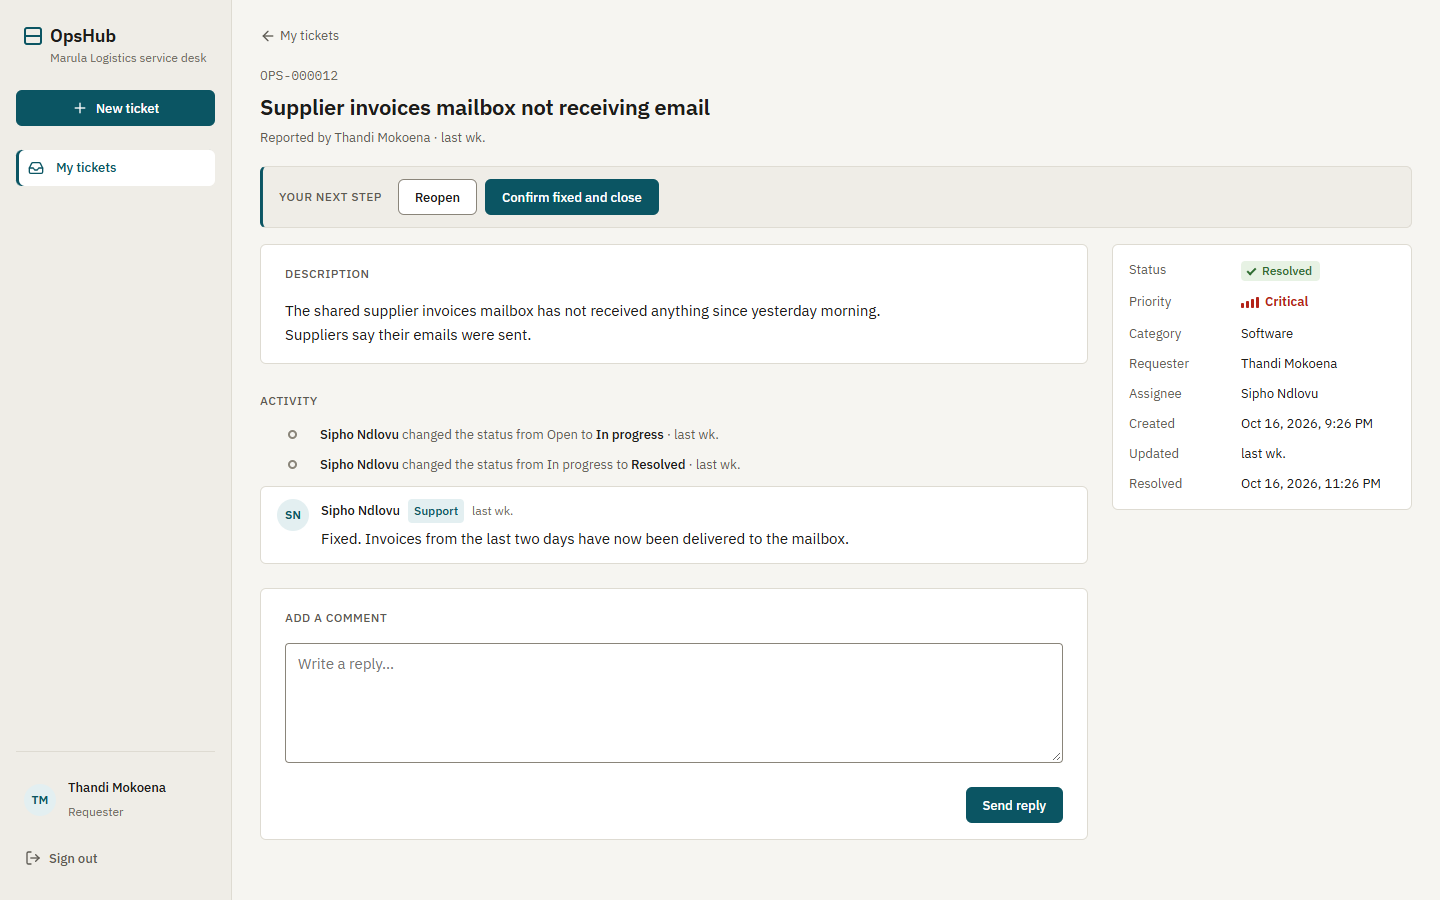
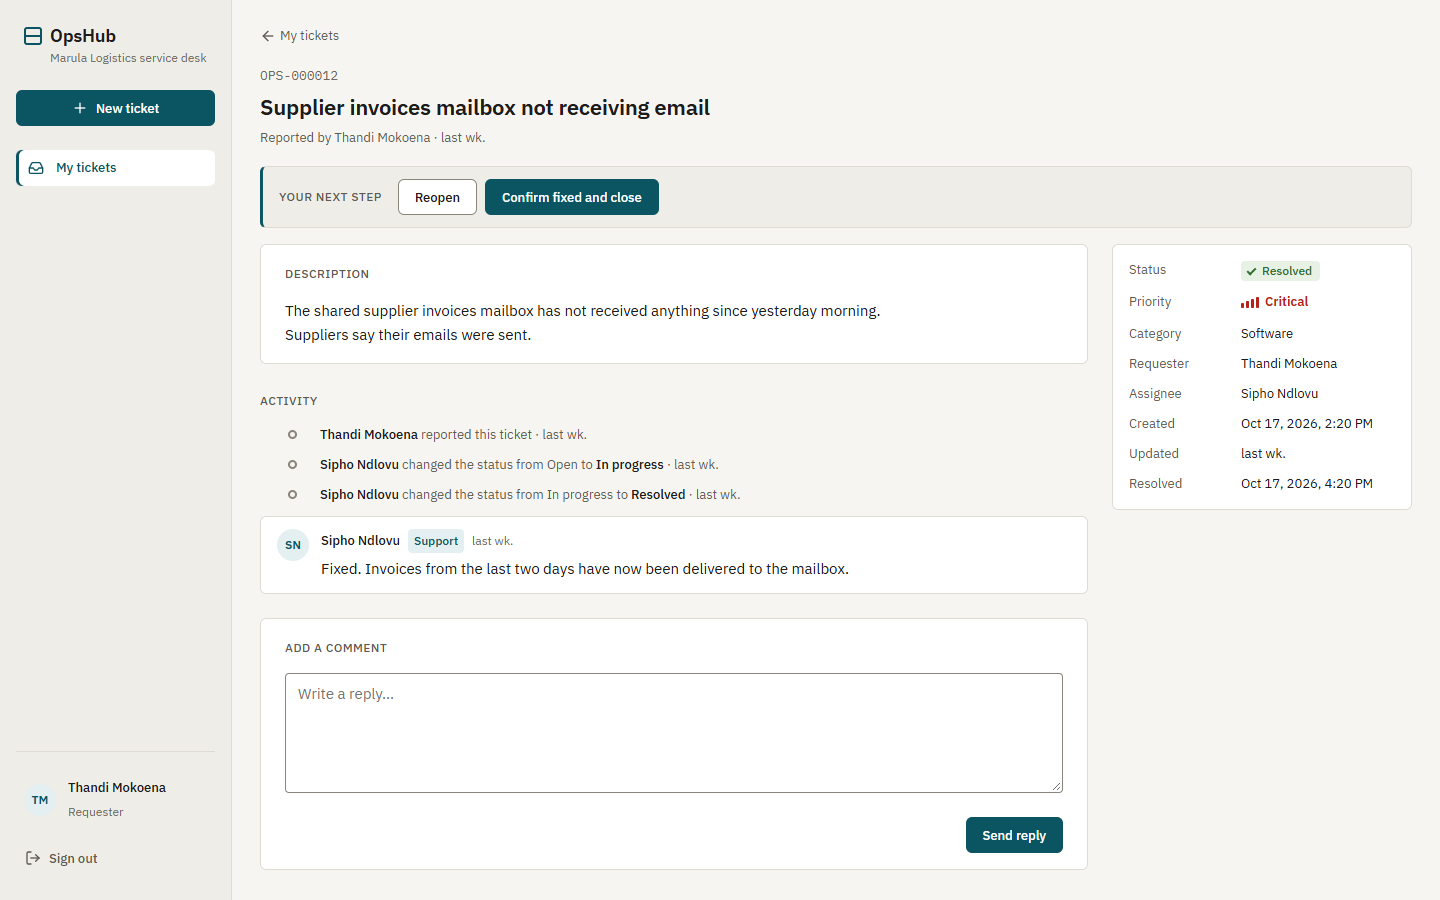
Show the ticket being reported in its timeline; add the report screenshot
The activity timeline started at the first status change, so a ticket's
history began after it was reported. The creation entry was recorded but
filtered out; it now opens the timeline as "<name> reported this ticket".
The timeline merge moves into a pure function with tests (50 frontend
tests).

README: a screenshot of the report form, and the screenshots reordered
to follow the workflow from submission to resolution.

Changed region(s): [[0.1875, 0.4667, 0.5938, 0.7778], [0.6562, 0.8711, 0.75, 0.9644], [0.9062, 0.5289, 0.9688, 0.56]]

diff --git a/src/OpsHub.Web/src/app/features/tickets/timeline.spec.ts b/src/OpsHub.Web/src/app/features/tickets/timeline.spec.ts
@@ -1,0 +1,36 @@
+import { StatusHistoryEntry, TicketComment } from '../../core/api/models';
+import { buildTimeline } from './timeline';
+
+const thandi = { id: 'u-thandi', displayName: 'Thandi Mokoena' };
+const sipho = { id: 'u-sipho', displayName: 'Sipho Ndlovu' };
+
+const history = (id: number, from: StatusHistoryEntry['fromStatus'], to: StatusHistoryEntry['toStatus'], at: string): StatusHistoryEntry =>
+  ({ id, fromStatus: from, toStatus: to, changedBy: from === null ? thandi : sipho, note: null, changedAt: at });
+
+const comment = (id: number, at: string): TicketComment =>
+  ({ id, body: 'Reply', isInternal: false, author: sipho, authorIsStaff: true, createdAt: at });
+
+/** The ticket page's activity list: status changes and comments, oldest first. */
+describe('buildTimeline', () => {
+  it('starts with the ticket being reported, so the whole story is shown', () => {
+    const items = buildTimeline([history(1, null, 'Open', '2026-10-24T08:00:00Z')], []);
+
+    expect(items).toHaveLength(1);
+    expect(items[0]).toMatchObject({ kind: 'status', entry: { fromStatus: null, toStatus: 'Open' } });
+  });
+
+  it('merges status changes and comments in time order', () => {
+    const items = buildTimeline(
+      [history(1, null, 'Open', '2026-10-24T08:00:00Z'), history(2, 'Open', 'InProgress', '2026-10-24T09:00:00Z')],
+      [comment(10, '2026-10-24T08:30:00Z'), comment(11, '2026-10-24T09:30:00Z')],
+    );
+
+    expect(items.map((i) => i.key)).toEqual(['s1', 'c10', 's2', 'c11']);
+  });
+
+  it('puts a status change before a comment made at the same moment', () => {
+    const items = buildTimeline([history(2, 'Open', 'Resolved', '2026-10-24T09:00:00Z')], [comment(10, '2026-10-24T09:00:00Z')]);
+
+    expect(items.map((i) => i.kind)).toEqual(['status', 'comment']);
+  });
+});

diff --git a/src/OpsHub.Web/src/app/features/tickets/ticket-detail.ts b/src/OpsHub.Web/src/app/features/tickets/ticket-detail.ts
@@ -20,17 +20,13 @@ import { RelativeTime } from '../../shared/ui/relative-time';
 import { StatusTag } from '../../shared/ui/status-tag';
 import { StatusDialog } from './status-dialog';
 import { StatusAction, statusActions } from './ticket-actions';
+import { TimelineItem, buildTimeline } from './timeline';
 
 interface TicketView {
   ticket: TicketDetails;
   comments: TicketComment[];
   history: StatusHistoryEntry[];
 }
-
-/** One entry in the merged timeline of comments and status changes. */
-type TimelineItem =
-  | { kind: 'comment'; key: string; at: string; comment: TicketComment }
-  | { kind: 'status'; key: string; at: string; entry: StatusHistoryEntry };
 
 @Component({
   selector: 'app-ticket-detail',
@@ -73,13 +69,7 @@ export class TicketDetail implements HasUnsavedChanges {
 
   protected readonly timeline = computed<TimelineItem[]>(() => {
     const view = this.state().data;
-    if (!view) return [];
-    const items: TimelineItem[] = [
-      ...view.comments.map((comment) => ({ kind: 'comment' as const, key: `c${comment.id}`, at: comment.createdAt, comment })),
-      // The first history row is the ticket being reported; the header already shows that.
-      ...view.history.filter((h) => h.fromStatus !== null).map((entry) => ({ kind: 'status' as const, key: `s${entry.id}`, at: entry.changedAt, entry })),
-    ];
-    return items.sort((a, b) => a.at.localeCompare(b.at));
+    return view ? buildTimeline(view.history, view.comments) : [];
   });
 
   protected readonly actions = computed<StatusAction[]>(() => {

diff --git a/src/OpsHub.Web/src/app/features/tickets/timeline.ts b/src/OpsHub.Web/src/app/features/tickets/timeline.ts
@@ -1,0 +1,21 @@
+import { StatusHistoryEntry, TicketComment } from '../../core/api/models';
+
+/** One entry in the merged timeline of comments and status changes. */
+export type TimelineItem =
+  | { kind: 'comment'; key: string; at: string; comment: TicketComment }
+  | { kind: 'status'; key: string; at: string; entry: StatusHistoryEntry };
+
+/**
+ * Merges a ticket's status history and comments into one list, oldest first. The first
+ * history row (from no status to Open) is the ticket being reported, so the timeline tells
+ * the whole story from submission onwards.
+ */
+export function buildTimeline(history: StatusHistoryEntry[], comments: TicketComment[]): TimelineItem[] {
+  // History first, so an event and a comment at the same moment keep that order after the
+  // (stable) sort.
+  const items: TimelineItem[] = [
+    ...history.map((entry) => ({ kind: 'status' as const, key: `s${entry.id}`, at: entry.changedAt, entry })),
+    ...comments.map((comment) => ({ kind: 'comment' as const, key: `c${comment.id}`, at: comment.createdAt, comment })),
+  ];
+  return items.sort((a, b) => a.at.localeCompare(b.at));
+}

diff --git a/src/OpsHub.Web/src/app/features/tickets/ticket-detail.html b/src/OpsHub.Web/src/app/features/tickets/ticket-detail.html
@@ -140,8 +140,12 @@
                     <div>
                       <p>
                         <span class="author">{{ item.entry.changedBy.displayName }}</span>
-                        changed the status from {{ statusLabel(item.entry.fromStatus) }} to
-                        <strong>{{ statusLabel(item.entry.toStatus) }}</strong>
+                        @if (item.entry.fromStatus === null) {
+                          reported this ticket
+                        } @else {
+                          changed the status from {{ statusLabel(item.entry.fromStatus) }} to
+                          <strong>{{ statusLabel(item.entry.toStatus) }}</strong>
+                        }
                         · <app-relative-time [value]="item.entry.changedAt" />
                       </p>
                       @if (item.entry.note) {

diff --git a/README.md b/README.md
@@ -49,30 +49,35 @@ All data shown is fictional demo data.
 ![Staff dashboard: open tickets, tickets needing triage, status and priority breakdowns, agent workload and recently updated tickets](docs/screenshots/dashboard.png)
 *The staff dashboard, built from live data.*
 
+From submission to resolution:
+
 <table>
   <tr>
-    <td width="50%"><img src="docs/screenshots/queue.png" alt="Support queue showing the All active view with search, priority and category filters, and sortable columns"></td>
-    <td width="50%"><img src="docs/screenshots/ticket-staff.png" alt="Ticket detail for staff with the Next step bar, the activity history including an internal note, and the assignment panel"></td>
+    <td width="50%"><img src="docs/screenshots/new-ticket.png" alt="The Report a problem form filled in by a requester: title, category Network, priority High and a description of a Wi-Fi problem"></td>
+    <td width="50%"><img src="docs/screenshots/requester-tickets.png" alt="A requester's list of their own tickets, with prompts for tickets needing a reply or confirmation"></td>
   </tr>
   <tr>
-    <td><em>The queue: views, search, filters and sorting.</em></td>
-    <td><em>A ticket as staff see it, with the next step and an internal note.</em></td>
+    <td><em>1. An employee reports a problem…</em></td>
+    <td><em>2. …and follows it among their own tickets.</em></td>
   </tr>
   <tr>
-    <td><img src="docs/screenshots/requester-tickets.png" alt="A requester's list of their own tickets, with prompts for tickets needing a reply or confirmation"></td>
-    <td><img src="docs/screenshots/requester-resolved.png" alt="A resolved ticket as the requester sees it, with buttons to reopen it or confirm the fix and close it"></td>
+    <td><img src="docs/screenshots/queue.png" alt="Support queue showing the All active view with search, priority and category filters, and sortable columns"></td>
+    <td><img src="docs/screenshots/ticket-staff.png" alt="Ticket detail for staff: the Next step bar, an activity history that starts with the ticket being reported, an internal note, and the assignment panel"></td>
   </tr>
   <tr>
-    <td><em>A requester sees only their own tickets.</em></td>
-    <td><em>The requester confirms the fix or reopens the ticket.</em></td>
+    <td><em>3. Support triages the queue: views, search, filters and sorting.</em></td>
+    <td><em>4. An agent works the ticket. The history shows every step since it was reported.</em></td>
   </tr>
   <tr>
+    <td><img src="docs/screenshots/requester-resolved.png" alt="A resolved ticket as the requester sees it, with its full history and buttons to reopen it or confirm the fix and close it"></td>
     <td><img src="docs/screenshots/admin-users.png" alt="User administration with the Add a user dialog open"></td>
-    <td align="center"><img src="docs/screenshots/queue-mobile.png" alt="The queue on a phone: rows become cards and sorting moves into a select" width="260"></td>
   </tr>
   <tr>
-    <td><em>User administration.</em></td>
-    <td><em>The queue on a phone.</em></td>
+    <td><em>5. The requester confirms the fix or reopens the ticket.</em></td>
+    <td><em>Administrators manage accounts and roles.</em></td>
+  </tr>
+  <tr>
+    <td colspan="2" align="center"><img src="docs/screenshots/queue-mobile.png" alt="The queue on a phone: rows become cards and sorting moves into a select" width="260"><br><em>The queue on a phone.</em></td>
   </tr>
 </table>
 
@@ -214,7 +219,7 @@ The script `scripts/Test-SignIn.ps1` walks through the sign-in flow from PowerSh
 # Backend: 58 unit + 135 integration tests
 dotnet test
 
-# Frontend: 47 unit and component tests (no browser needed)
+# Frontend: 50 unit and component tests (no browser needed)
 cd src/OpsHub.Web
 npx ng test --watch=false
 ```

diff --git a/docs/DESIGN.md b/docs/DESIGN.md
@@ -196,7 +196,8 @@ thing they must act on.
 Two columns on wide screens:
 - **Main (left):** reference + title, then the **"Next step" bar**: a labelled, tinted section holding the
   allowed status changes as verbs (*Start work*, *Ask requester*, *Resolve*, *Close*, *Reopen*). Then the
-  description, a **timeline** that merges comments and status changes in time order, and the reply box.
+  description, a **timeline** that merges comments and status changes in time order, starting with the ticket
+  being reported, and the reply box.
   Staff also get **Send and resolve** in the reply box.
 
   *Change from user testing:* the first version was an unlabelled row of buttons. A tester scrolled
